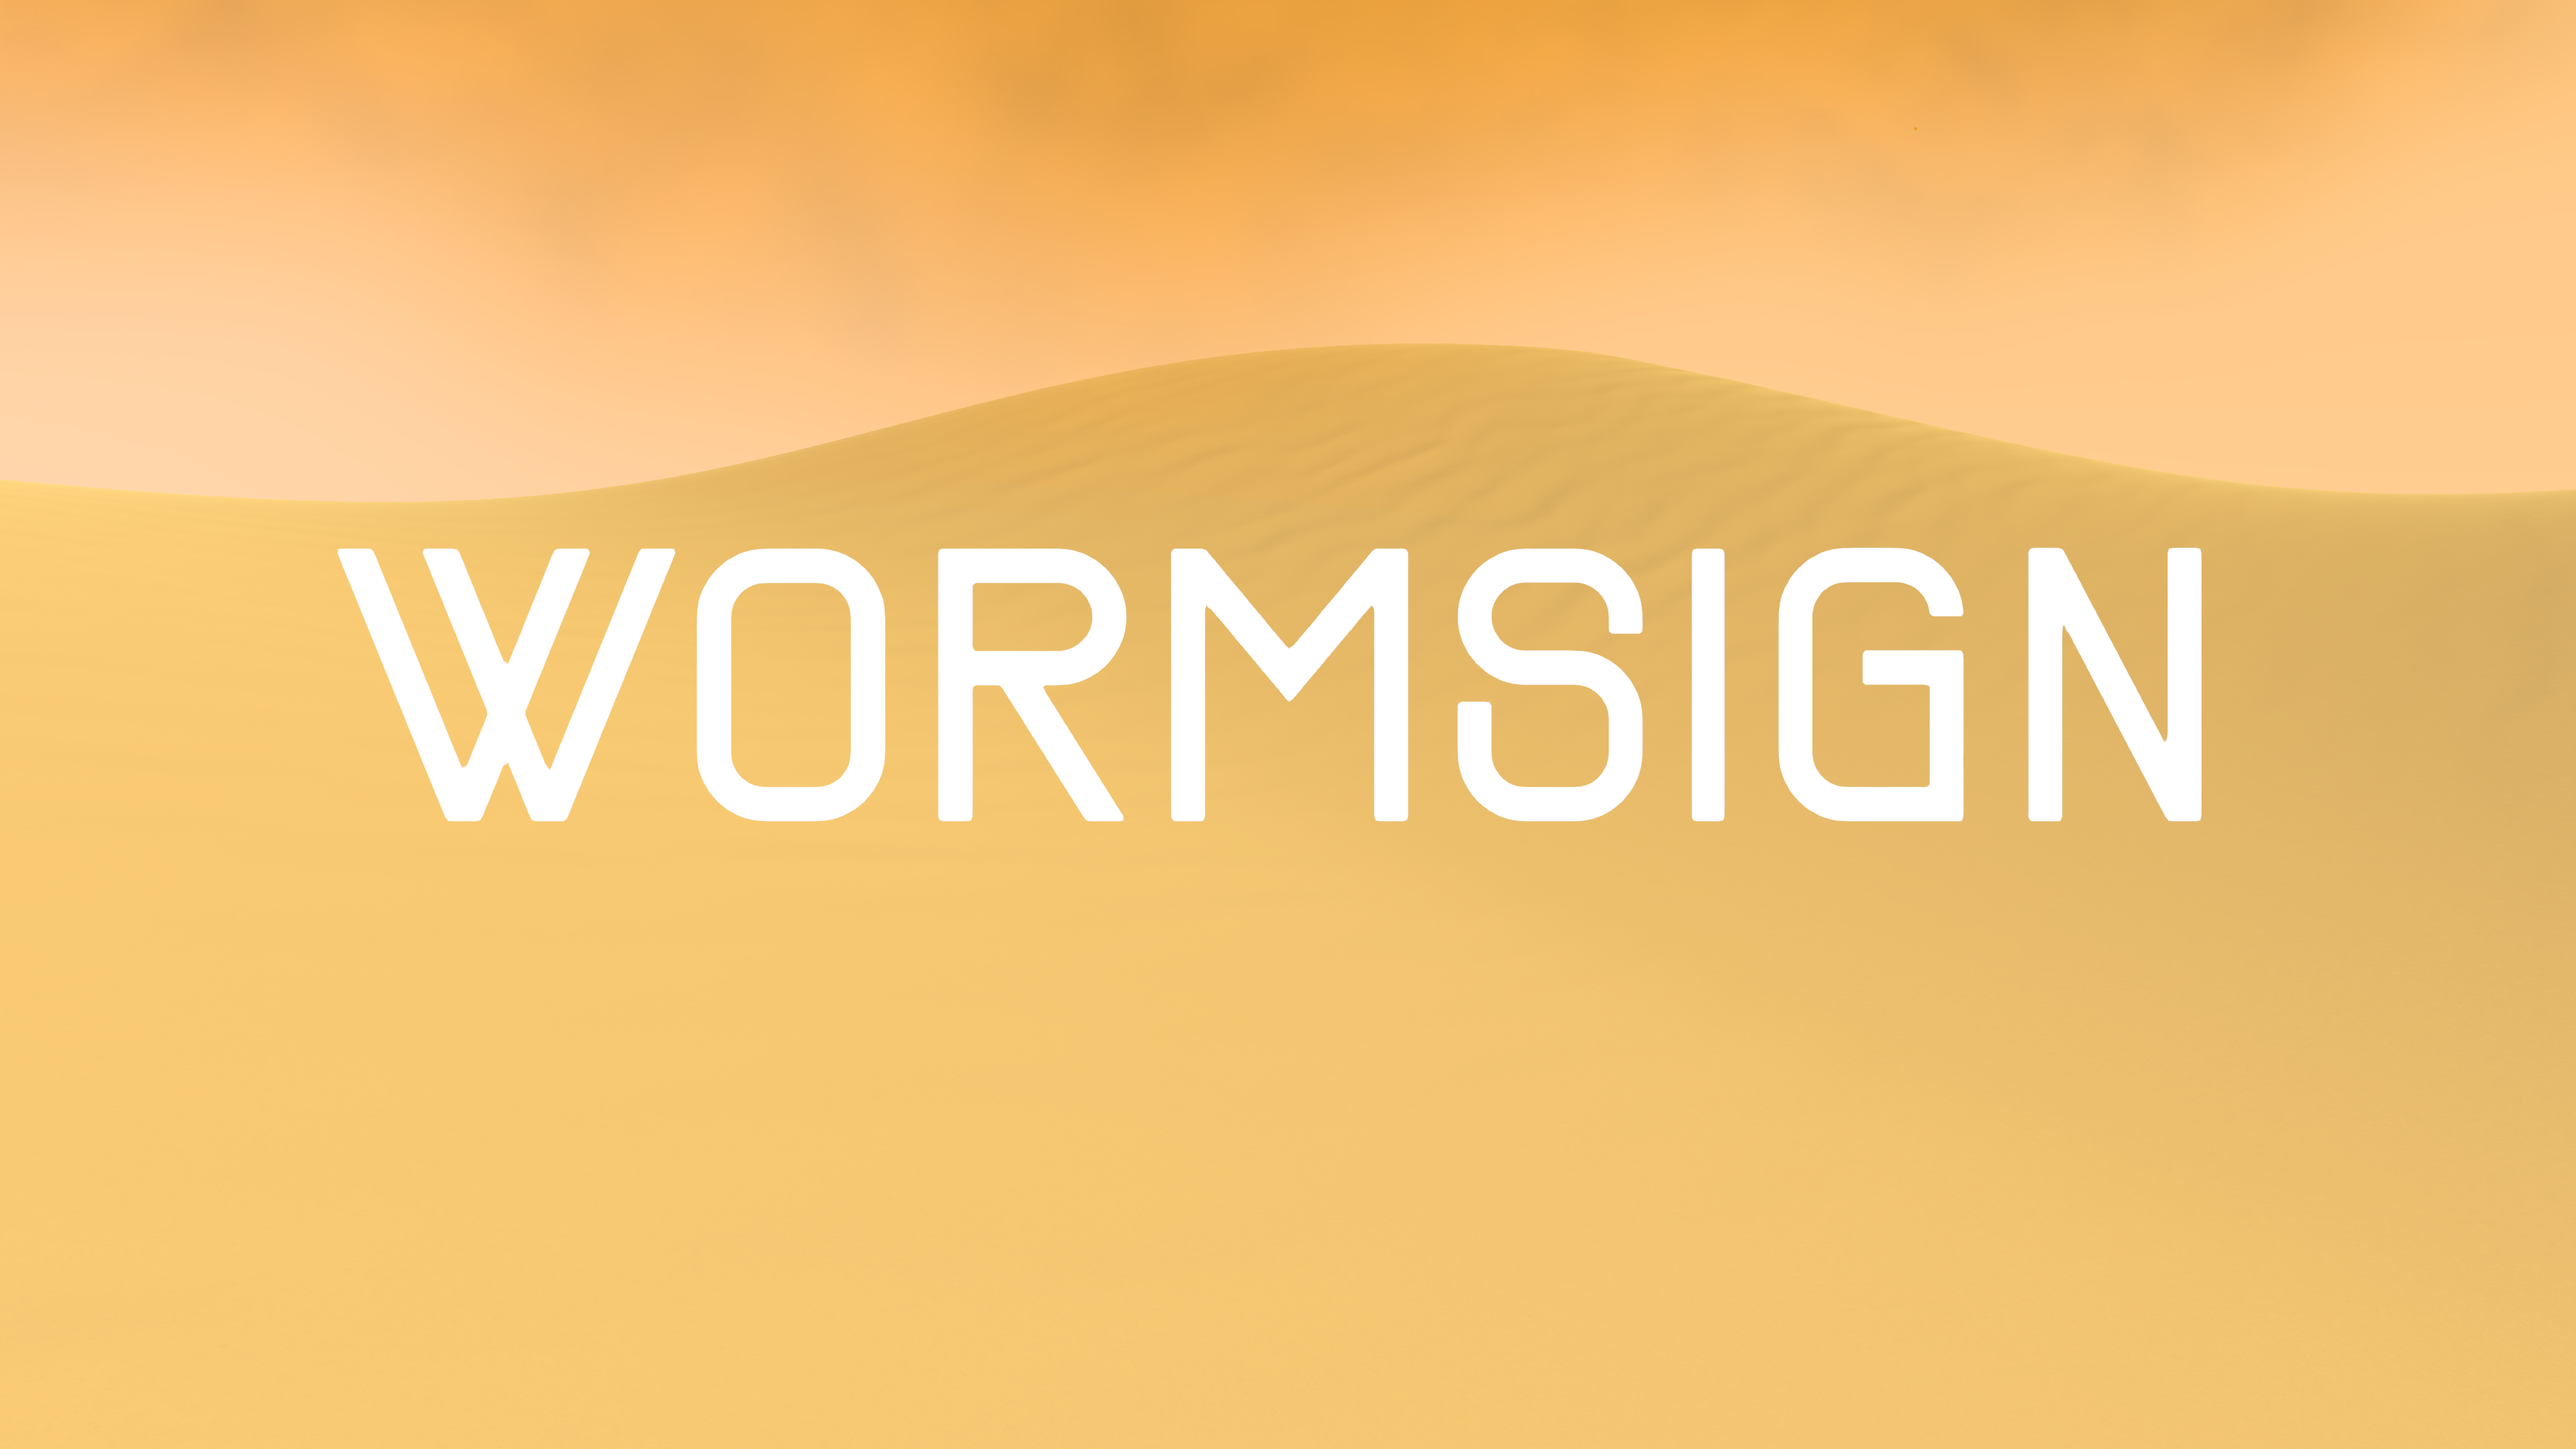
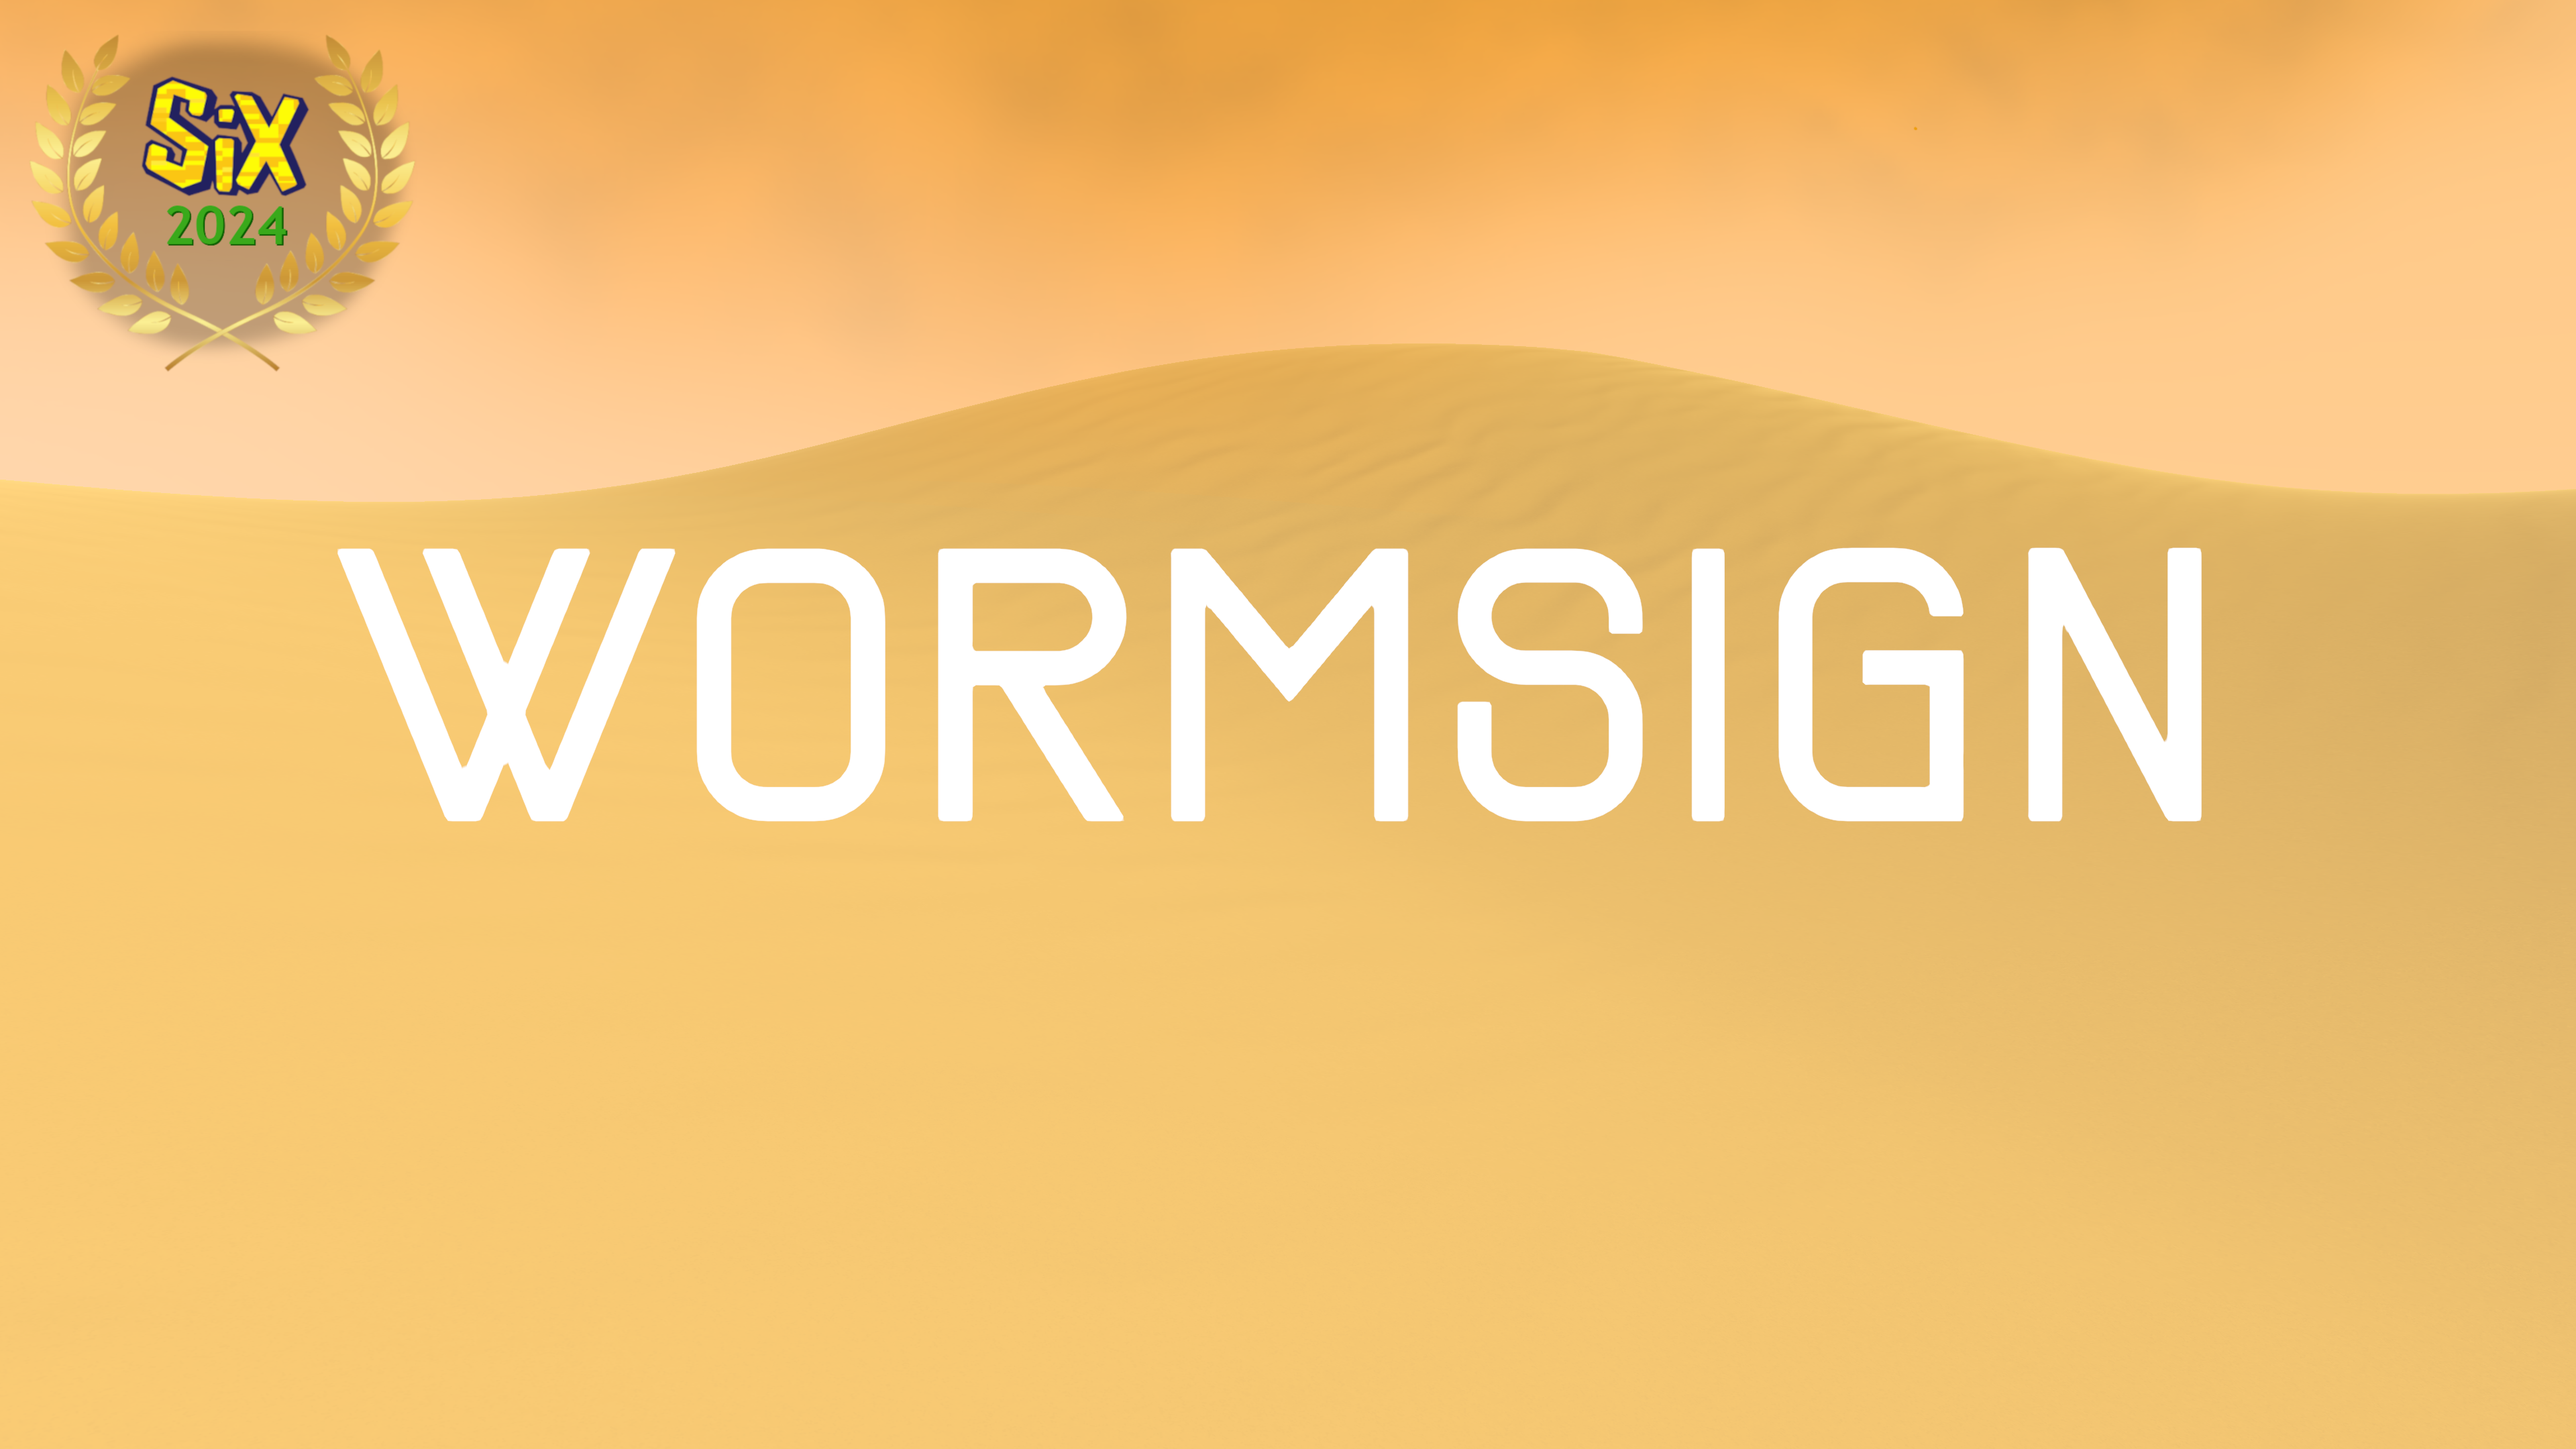
Update site with SIX 2024 for Wormsign.

Changed region(s): [[0.0, 0.031, 0.1562, 0.2481]]

diff --git a/index.html b/index.html
@@ -45,8 +45,8 @@
                 <tr>
                     <td class="game-info">
                         <div class="game-title">Wormsign</div>
-                        <div class="game-desc">A short musical experience, playable in your browser.</div>
-                        <div class="game-details">Made in Unity</div>
+                        <div class="game-desc">A short musical experience.<br/>Selected for exhibition at <a class="link" href="https://six.seattleindies.org/2024/#wormsign">SIX 2024</a>.</div>
+                        <div class="game-details">Made in Unity.</div>
                     </td>
                     <td>
                         <img class="game-image" src="./img/projects/wormsign.png"/>
@@ -61,7 +61,7 @@
                     <td class="game-info">
                         <div class="game-title">Abbot's Gambol</div>
                         <div class="game-desc">A card game for one or two players.<br/>Selected for exhibition at <a class="link" href="https://six.seattleindies.org/2023/#abbotsgambol">SIX 2023</a>.</div>
-                        <div class="game-details">Made in Unity</div>
+                        <div class="game-details">Made in Unity.<br/>Check out the <a class="link" href="https://mrmeowmurs.itch.io/abbots-gambol/devlog/756244/lessons-learned-making-a-digital-card-game-abbots-gambol">devlog</a>.</div>
                     </td>
                     <td>
                         <img class="game-image" src="./img/projects/abbots-gambol.png"/>
@@ -76,7 +76,7 @@
                     <td class="game-info">
                         <div class="game-title">Typeknight</div>
                         <div class="game-desc">Practice your typing by defeating three unique bosses.</div>
-                        <div class="game-details">Programming/design<br/>Made in Unity</div>
+                        <div class="game-details">Programming/design.<br/>Made in Unity.</div>
                     </td>
                     <td>
                         <img class="game-image" src="./img/projects/typeknight.png"/>
@@ -91,7 +91,7 @@
                     <td class="game-info">
                         <div class="game-title">JetStreamers</div>
                         <div class="game-desc">Steer two starships to safety through an asteroid field.</div>
-                        <div class="game-details">Programming/design<br/>Made in Unreal</div>
+                        <div class="game-details">Programming/design.<br/>Made in Unreal.</div>
                     </td>
                     <td>
                         <img class="game-image" src="./img/projects/jetstreamers.png"/>
